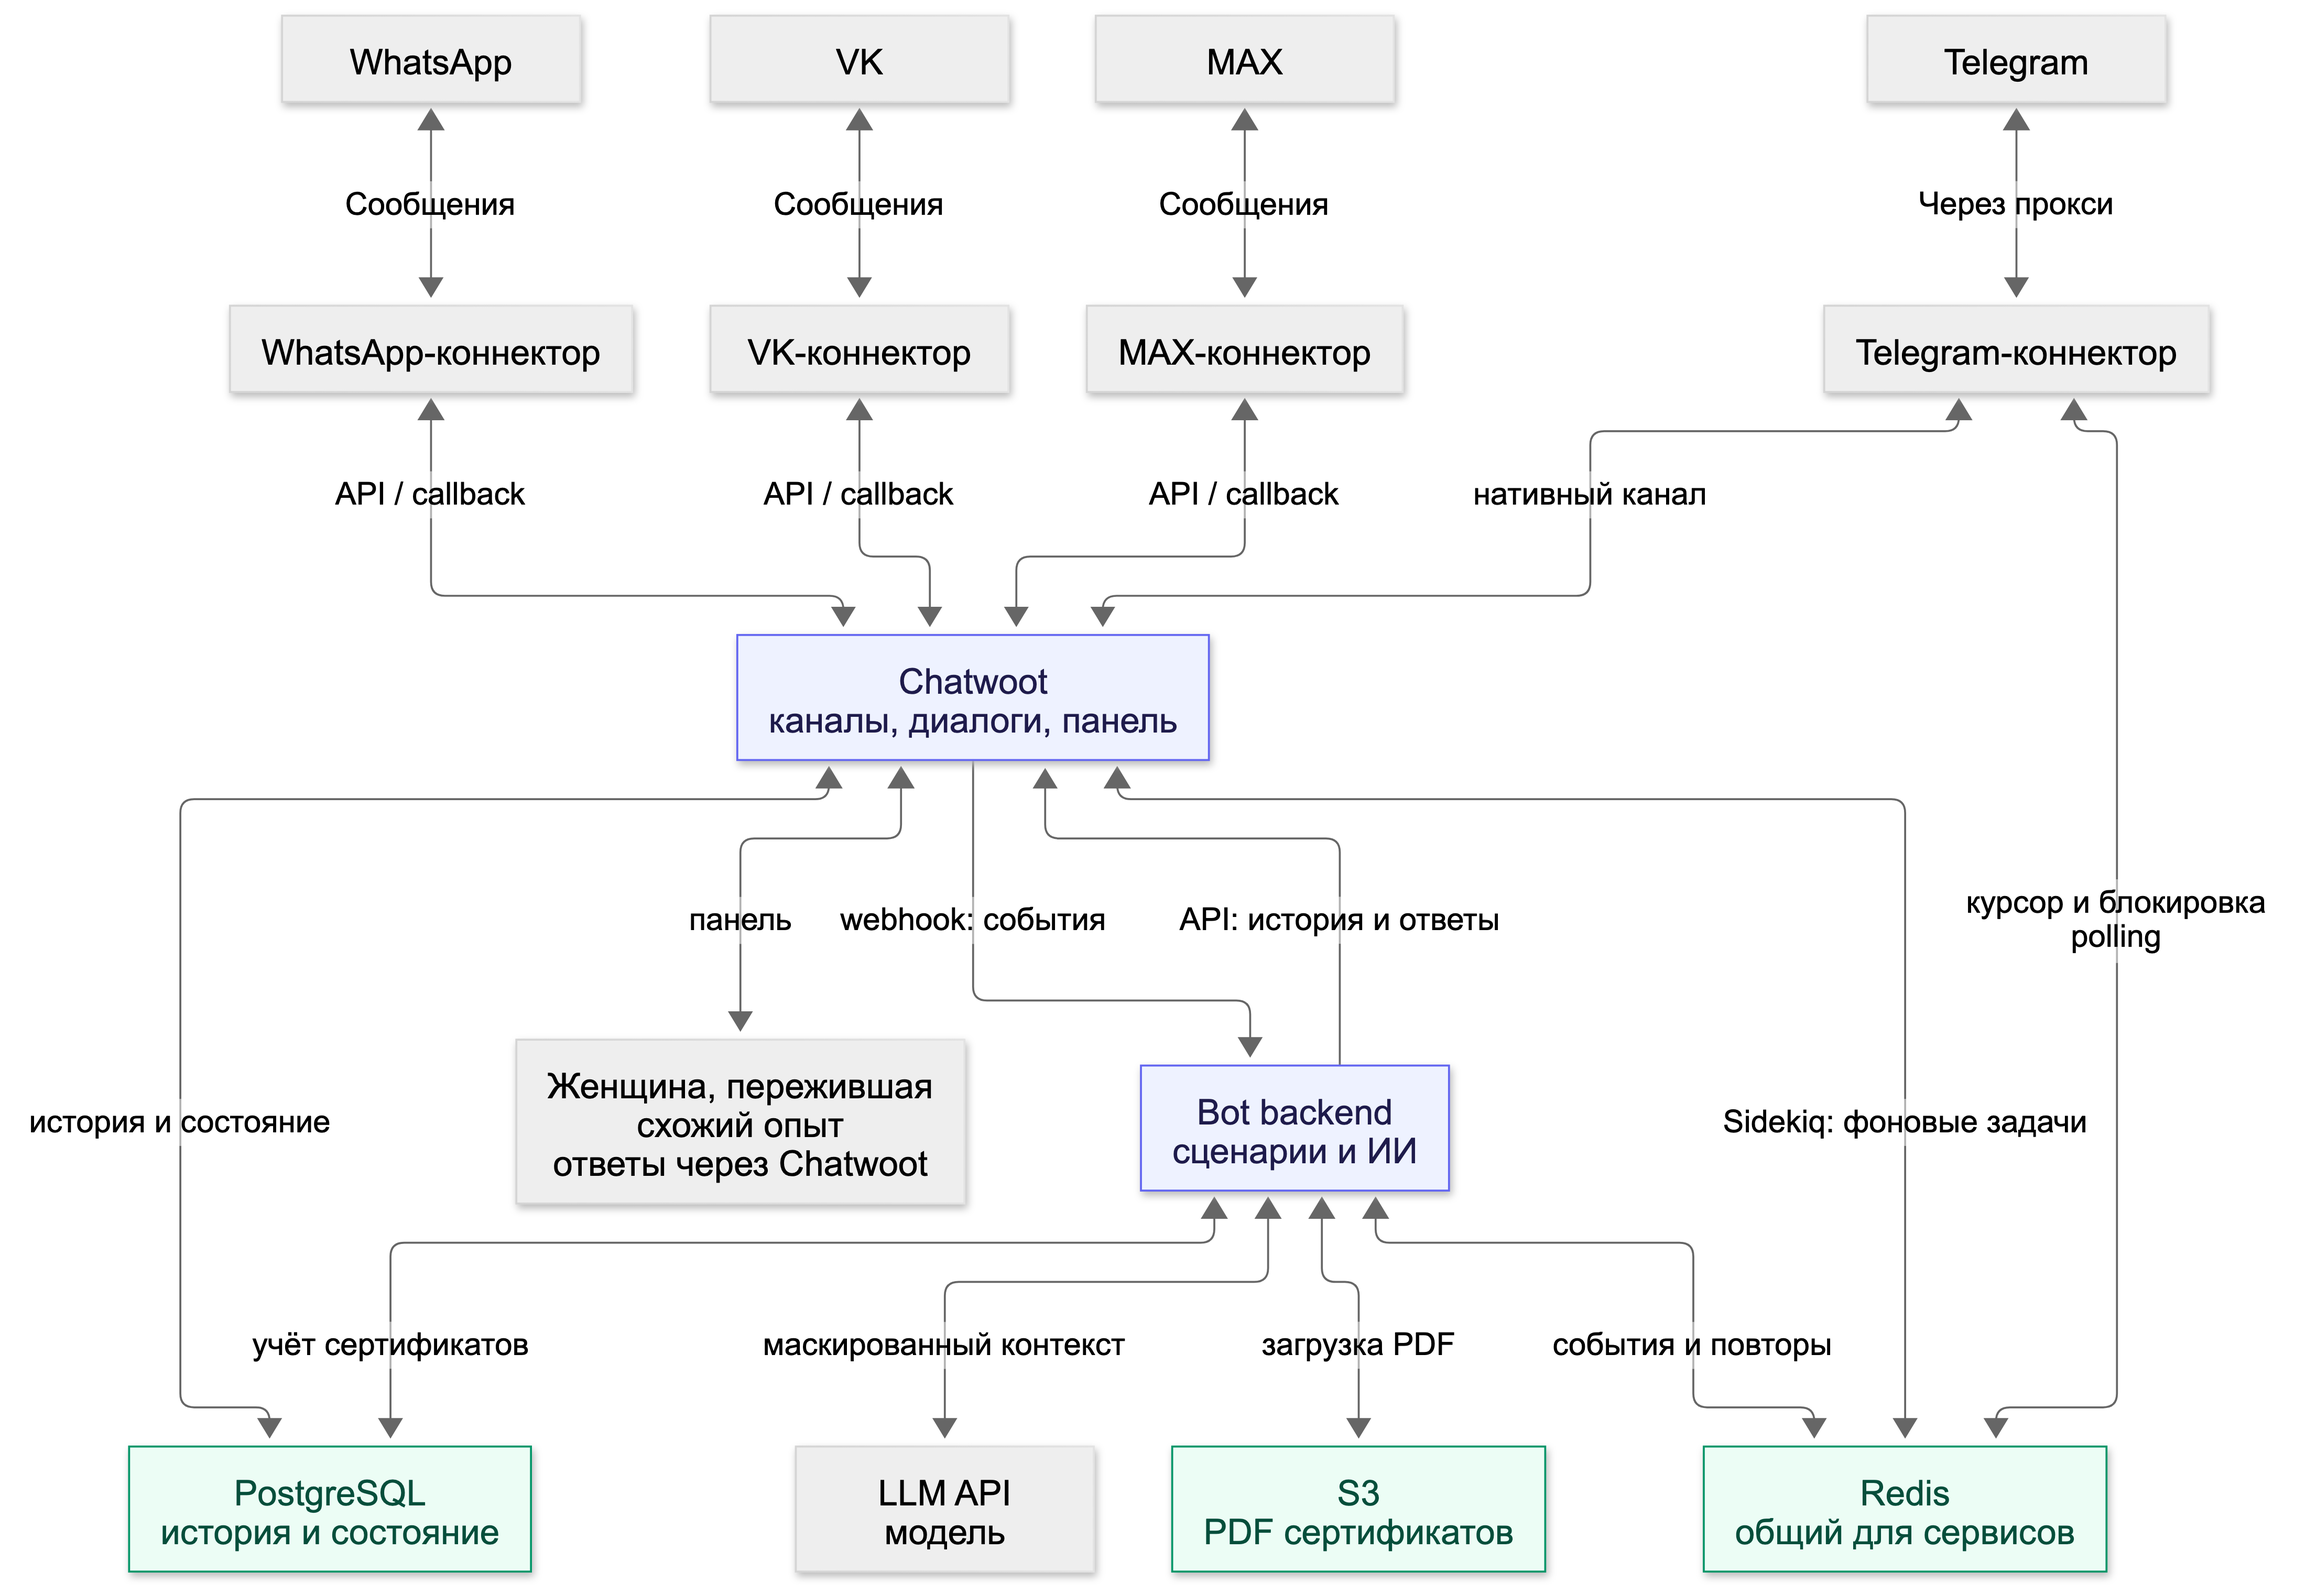
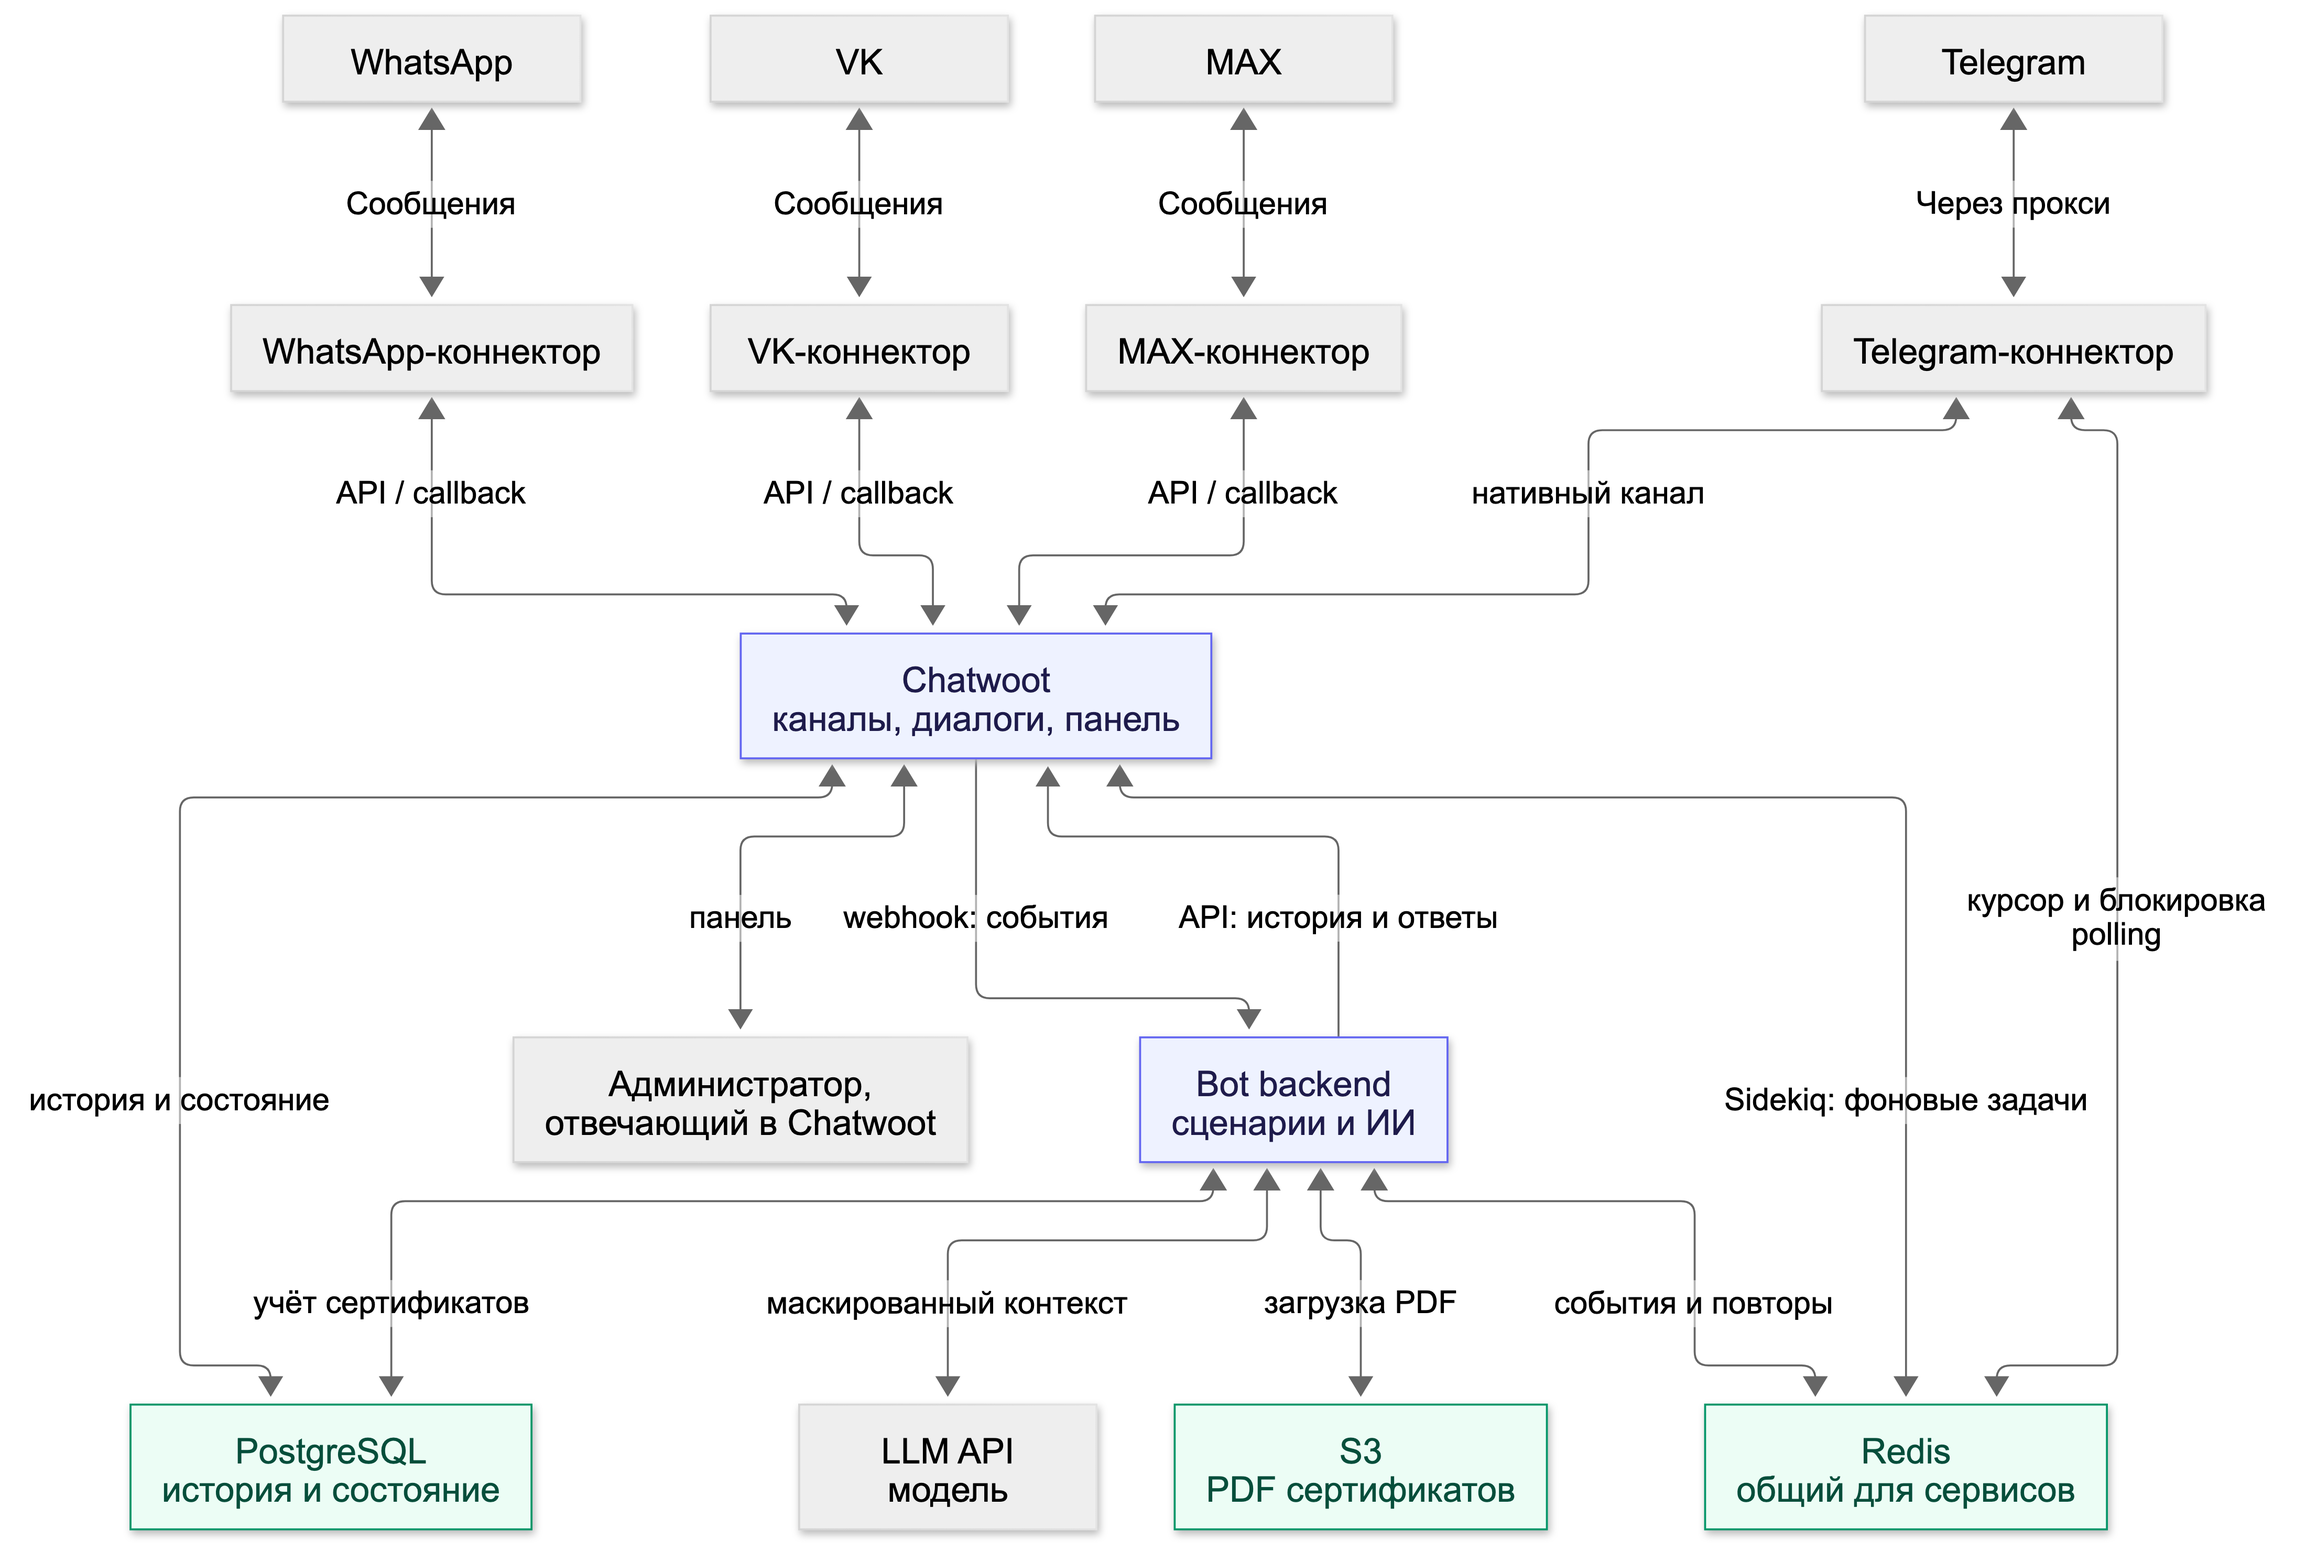
Rename Chatwoot staff block to administrator

diff --git a/docs/architecture.md b/docs/architecture.md
@@ -32,7 +32,7 @@ config:
 ---
 flowchart TB
     accTitle: Целевая архитектура приложения Невидимого фонда
-    accDescr: Telegram, WhatsApp, VK и MAX связаны с Chatwoot через логические блоки коннекторов. Telegram-транспорт работает через прокси. Chatwoot отправляет события бэкенду через webhook; бэкенд работает с Chatwoot API, LLM, S3 и учётом сертификатов в PostgreSQL. Общий Redis используется Chatwoot для фоновых задач Sidekiq, бэкендом для очереди событий и повторов, Telegram-коннектором для курсора и блокировки polling. Человек отвечает через панель Chatwoot.
+    accDescr: Telegram, WhatsApp, VK и MAX связаны с Chatwoot через логические блоки коннекторов. Telegram-транспорт работает через прокси. Chatwoot отправляет события бэкенду через webhook; бэкенд работает с Chatwoot API, LLM, S3 и учётом сертификатов в PostgreSQL. Общий Redis используется Chatwoot для фоновых задач Sidekiq, бэкендом для очереди событий и повторов, Telegram-коннектором для курсора и блокировки polling. Администратор отвечает через панель Chatwoot.
 
     TG["Telegram"]
     WA["WhatsApp"]
@@ -46,7 +46,7 @@ flowchart TB
 
     CW["Chatwoot<br/>каналы, диалоги, панель"]
     AGENT["Bot backend<br/>сценарии и ИИ"]
-    STAFF["Женщина, пережившая<br/>схожий опыт<br/>ответы через Chatwoot"]
+    STAFF["Администратор,<br/>отвечающий в Chatwoot"]
     PG["PostgreSQL<br/>история и состояние"]
     LLM["LLM API<br/>модель"]
     S3["S3<br/>PDF сертификатов"]
@@ -81,8 +81,8 @@ flowchart TB
 
 В Chatwoot видна вся переписка. Бот продолжает отвечать после уведомления команды
 и замолкает, когда разговор берёт человек. Ответы человека идут в тот же Telegram-чат.
-На схеме показана женщина, пережившая схожий опыт; дежурная, юрист и психолог
-работают через тот же Chatwoot.
+На схеме показан администратор, отвечающий в Chatwoot. Дежурная, юрист и
+психолог работают через ту же панель; это название блока, не изменение прав.
 
 Все коннекторы на рисунке показаны на одном логическом уровне: они обеспечивают
 обмен сообщениями между мессенджером и Chatwoot. Это границы ответственности,
@@ -127,7 +127,7 @@ LLM вызывается нашим бэкендом, не Chatwoot; перед 
 | Бэкенд ↔ PostgreSQL | `CertificateInventory`, `database_url`, таблицы `women_help_*`; [certificates.py](../app/chatwoot/certificates.py) |
 | Бэкенд ↔ LLM | `YandexAgentGateway.evaluate`, `_call_live`, `format_redacted_transcript`; [agents.py](../app/agents.py) |
 | Бэкенд ↔ S3 | `_send_certificate` загружает PDF через `S3CertificateObjectStore.download`; [service.py](../app/chatwoot/service.py), [certificate_documents.py](../app/certificate_documents.py) |
-| Человек ↔ Chatwoot | Панель Chatwoot; `parse_staff_message` и `_staff_message` обрабатывают ответ специалиста; [contracts.py](../app/chatwoot/contracts.py), [service.py](../app/chatwoot/service.py) |
+| Администратор ↔ Chatwoot | Панель Chatwoot; `parse_staff_message` и `_staff_message` обрабатывают ответ сотрудника; [contracts.py](../app/chatwoot/contracts.py), [service.py](../app/chatwoot/service.py) |
 | Chatwoot ↔ Redis | Один `REDIS_URL` у Rails и Sidekiq, `redis-server --appendonly yes`; [Compose](../deploy/chatwoot/compose.yml) |
 | Бэкенд ↔ Redis | `Redis.from_url` и `DurableEventQueue`: запись, чтение, подтверждение и повторы событий; [__main__.py](../app/chatwoot/__main__.py), [event_queue.py](../app/chatwoot/event_queue.py) |
 | Telegram-коннектор ↔ Redis | Чтение и сохранение offset, распределённая блокировка polling; [telegram_ingress.py](../app/chatwoot/telegram_ingress.py) |
